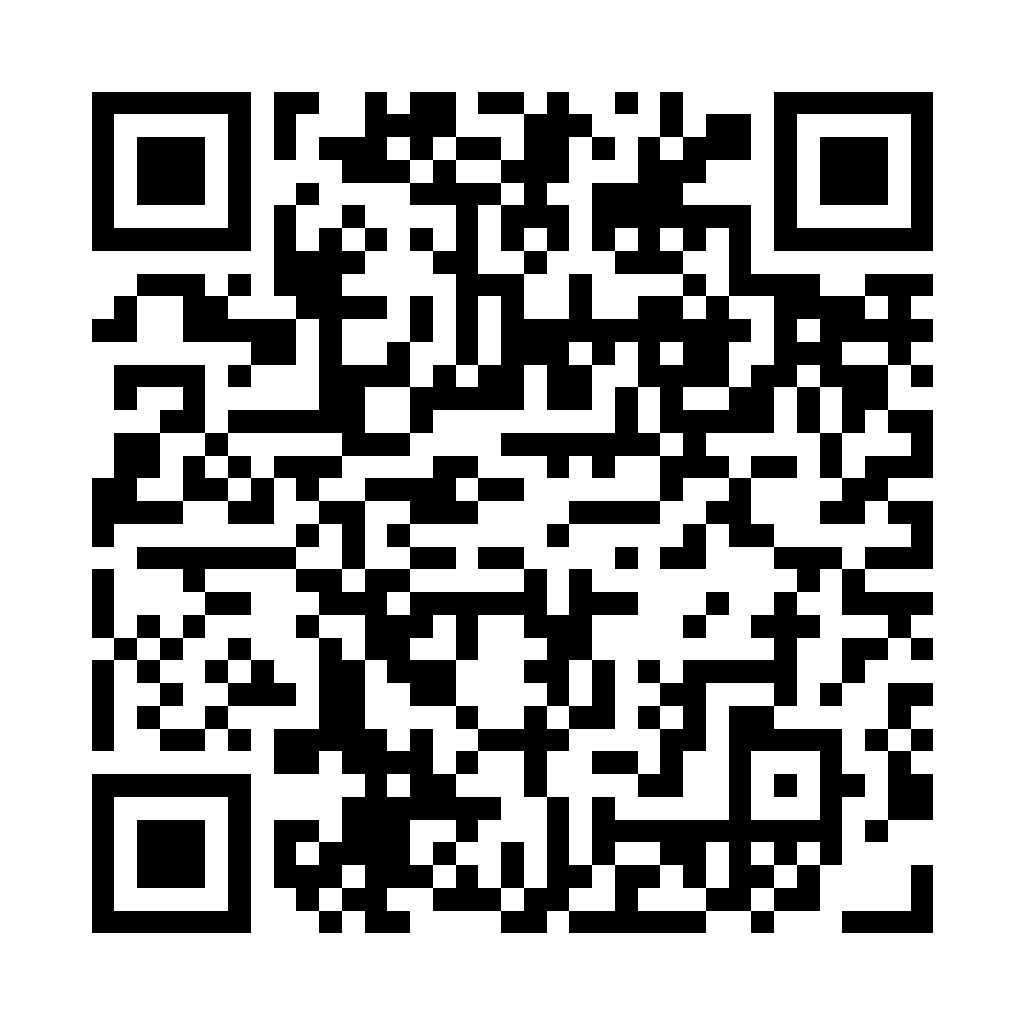
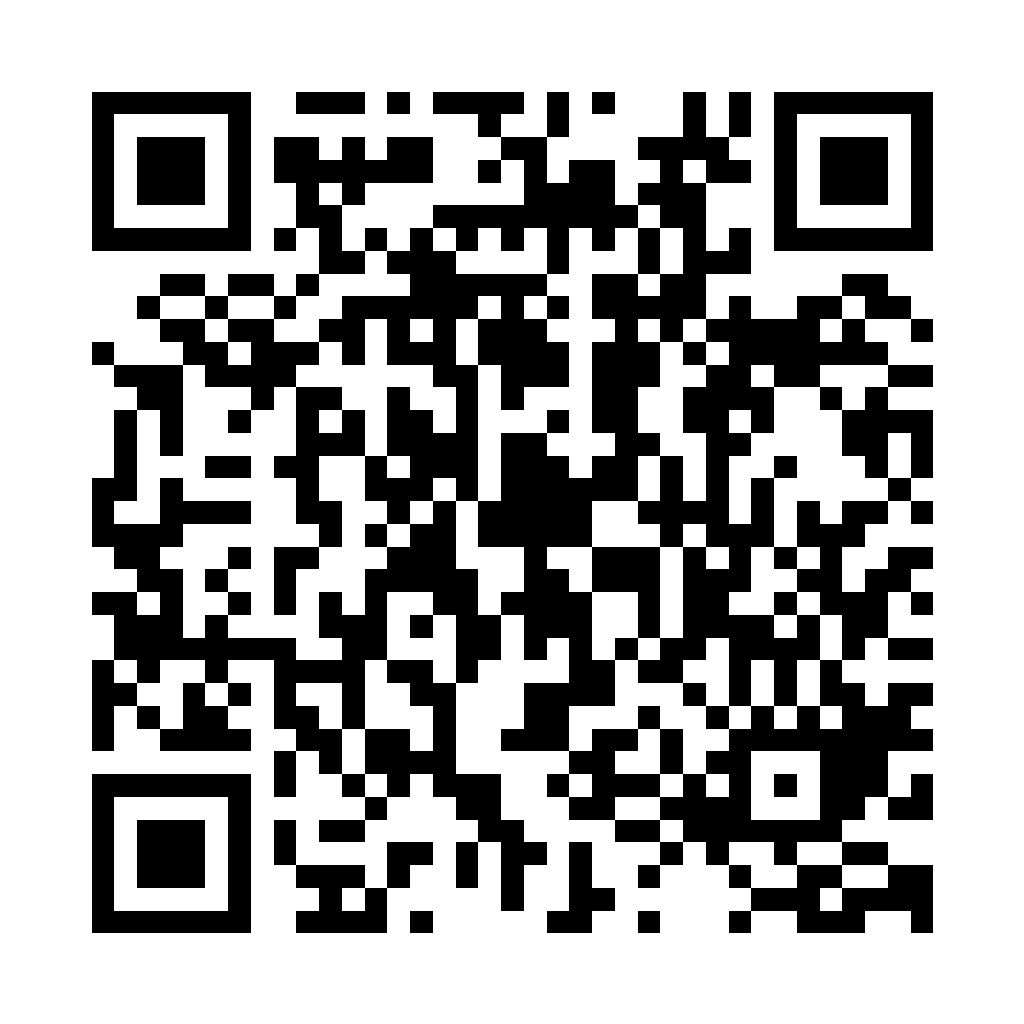
fix: Point repository links and QR codes to SkillsProof
Update tracked GitHub references, website links and QR payloads after the repository rename. Preserve internal identifiers and private artifacts.

Validation from sites/skillsbar-walkthrough:
- npm run assets:qr -> pass.
- xcrun swift -module-cache-path /private/tmp/skillsproof-qr-cache scripts/verify-skillsbar-qr.swift public/skillsbar-repo-qr-1024.png public/skillsbar-repo-qr-512.png -> pass; both decode the renamed URL.
- npm run lint -> pass.
- npm test -> pass; build and three rendered tests.
- node scripts/test-browser-production.mjs -> pass; six widths, keyboard, clipboard, motion and no-JavaScript checks. Required host execution after sandbox denied the server port.
- git diff --cached --check -> pass. No old tracked repository-slug matches remain. GitHub repository and PR 2 readback passed.

Changed region(s): [[0.0625, 0.0625, 0.9062, 0.9375]]

diff --git a/sites/skillsbar-walkthrough/app/page.tsx b/sites/skillsbar-walkthrough/app/page.tsx
@@ -10,8 +10,8 @@ export default function Home() {
       <a className="skip-link" href="#top">Skip to content</a>
       <nav className="site-nav" aria-label="Primary navigation">
         <a className="brand" href="#top" aria-label="SkillsBar home"><Image src="/skillsbar-icon-168.webp" alt="" width={28} height={28} unoptimized /><span>SkillsBar</span><small>by jscraik</small></a>
-        <div className="nav-links"><a href="#product">Product proof</a><a href="#walkthrough">How it works</a><a className="nav-cta" href="https://github.com/jscraik/skillsbar">Repository ↗</a></div>
-        <details className="compact-nav"><summary>Explore</summary><div><a href="#walkthrough">Interactive demo</a><a href="#product">Native app detail</a><a href="https://github.com/jscraik/skillsbar">Repository ↗</a></div></details><CompactNavBehavior />
+        <div className="nav-links"><a href="#product">Product proof</a><a href="#walkthrough">How it works</a><a className="nav-cta" href="https://github.com/jscraik/skillsproof">Repository ↗</a></div>
+        <details className="compact-nav"><summary>Explore</summary><div><a href="#walkthrough">Interactive demo</a><a href="#product">Native app detail</a><a href="https://github.com/jscraik/skillsproof">Repository ↗</a></div></details><CompactNavBehavior />
       </nav>
 
       <section className="hero" id="top" tabIndex={-1} aria-labelledby="hero-title">
@@ -63,8 +63,8 @@ export default function Home() {
       </section>
 
       <section className="closing" aria-labelledby="closing-title">
-        <div className="closing-copy"><p className="kicker">The maintainer decides</p><h2 id="closing-title">Run the next check. Decide what the result proves.</h2><p>Inspect the source, the native app, and the line between demo data and local evidence.</p><a className="button primary" href="https://github.com/jscraik/skillsbar">Open the repository ↗</a></div>
-        <div className="closing-qr"><div><Image src="/skillsbar-repo-qr-1024.png" alt="QR code for the SkillsBar GitHub repository" width={1024} height={1024} unoptimized /></div><a href="https://github.com/jscraik/skillsbar">github.com/jscraik/skillsbar</a></div>
+        <div className="closing-copy"><p className="kicker">The maintainer decides</p><h2 id="closing-title">Run the next check. Decide what the result proves.</h2><p>Inspect the source, the native app, and the line between demo data and local evidence.</p><a className="button primary" href="https://github.com/jscraik/skillsproof">Open the repository ↗</a></div>
+        <div className="closing-qr"><div><Image src="/skillsbar-repo-qr-1024.png" alt="QR code for the SkillsProof GitHub repository" width={1024} height={1024} unoptimized /></div><a href="https://github.com/jscraik/skillsproof">github.com/jscraik/skillsproof</a></div>
       </section>
 
       <footer className="site-footer"><div className="brand"><Image src="/skillsbar-icon-168.webp" alt="" width={24} height={24} unoptimized /><span>SkillsBar</span><small>by jscraik</small></div><p>Evidence at a glance. The next check in reach.</p><a href="#top">Back to top ↑</a></footer>

diff --git a/sites/skillsbar-walkthrough/scripts/verify-skillsbar-qr.swift b/sites/skillsbar-walkthrough/scripts/verify-skillsbar-qr.swift
@@ -2,7 +2,7 @@ import AppKit
 import Foundation
 import Vision
 
-let expected = "https://github.com/jscraik/skillsbar"
+let expected = "https://github.com/jscraik/skillsproof"
 let paths = CommandLine.arguments.dropFirst()
 
 guard !paths.isEmpty else {

diff --git a/verification/HISTORICAL-VERIFICATION-2026-10-20.md b/verification/HISTORICAL-VERIFICATION-2026-10-20.md
@@ -19,7 +19,7 @@ The repair inserts an Unproven placeholder and clears the prerequisite state.
 Later evidence is held; empty input produces nine Unproven stages. Complete
 input retains its receipts. The repair and regression tests were subsequently
 backed up in commit
-[`2674fbf`](https://github.com/jscraik/skillsbar/commit/2674fbf976a9b4a1ad9071328b5cc7b88224aa97).
+[`2674fbf`](https://github.com/jscraik/skillsproof/commit/2674fbf976a9b4a1ad9071328b5cc7b88224aa97).
 See [the gating model](../Sources/SkillsBar/Models/DashboardModels.swift) and
 [regression tests](../Tests/SkillsBarTests/ReviewPopoverTests.swift).
 
@@ -43,7 +43,7 @@ The runner's exit zero alone was never the solver verdict: logs required review.
 ## Installed evidence and interface observations
 
 Installed discovery and checked-source linking were backed up in
-[`b4b4c5e`](https://github.com/jscraik/skillsbar/commit/b4b4c5e9a1653330d253c51455606698a1dc7d32).
+[`b4b4c5e`](https://github.com/jscraik/skillsproof/commit/b4b4c5e9a1653330d253c51455606698a1dc7d32).
 The implementation keeps installed-copy identity and SDK receipts separate from
 Tessl observations. Exact package matching prevents unrelated search results
 from supplying metrics. Retained source/runtime drift must not clear SDK gates.
@@ -54,9 +54,9 @@ and [the documented evidence boundaries](../README.md).
 Historical UI observations recorded grouped chooser origins and plugin versions,
 an explicit missing-version label, and an elapsed-time display that updates
 without fetching new evidence. The presentation changes were backed up in
-[`ccb8e5c`](https://github.com/jscraik/skillsbar/commit/ccb8e5cd1469b82758d3a717a19cbd9811d30b43)
+[`ccb8e5c`](https://github.com/jscraik/skillsproof/commit/ccb8e5cd1469b82758d3a717a19cbd9811d30b43)
 and chooser coverage in
-[`0661507`](https://github.com/jscraik/skillsbar/commit/066150782ebd4b3ceb2f5e449a480c3d40a78872).
+[`0661507`](https://github.com/jscraik/skillsproof/commit/066150782ebd4b3ceb2f5e449a480c3d40a78872).
 See [presentation tests](../Tests/SkillsBarTests/PresentationPolishTests.swift).
 These historical observations do not establish fresh VoiceOver acceptance,
 host activation, registry publication or current UI behaviour.

diff --git a/.harness/reports/2026-07-18-pr-green-sweep.md b/.harness/reports/2026-07-18-pr-green-sweep.md
@@ -1,8 +1,8 @@
 ---
 schema_version: pr-green-sweep/v1
 artifact_id: skillsbar-pr-2-green-sweep-2026-07-18
-repo: jscraik/skillsbar
-pr_url: https://github.com/jscraik/skillsbar/pull/2
+repo: jscraik/skillsproof
+pr_url: https://github.com/jscraik/skillsproof/pull/2
 head_before: 587cad7640c1be48ee6d2b7c86fde1cf67b66a4b
 ---
 
@@ -10,7 +10,7 @@ head_before: 587cad7640c1be48ee6d2b7c86fde1cf67b66a4b
 
 ## URL-first action queue
 
-- https://github.com/jscraik/skillsbar/pull/2 — feat: add nine-gate Skills SDK evidence view
+- https://github.com/jscraik/skillsproof/pull/2 — feat: add nine-gate Skills SDK evidence view
   - Head before repair: codex/review-popover-delivery @ 587cad7640c1be48ee6d2b7c86fde1cf67b66a4b
   - State before repair: mergeable but blocked; eight current unresolved CodeRabbit threads; Analyze (swift) failed.
   - Queue: auto_fixable_now; source and proof edits were made in an isolated checkout at /private/tmp/skillsbar-pr2.
